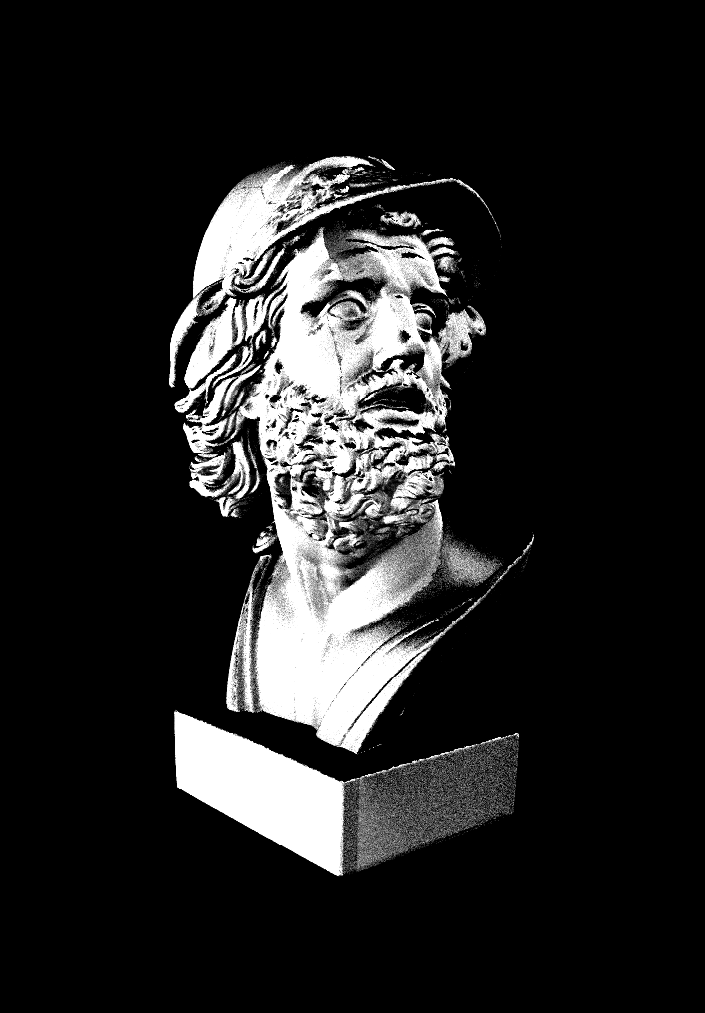
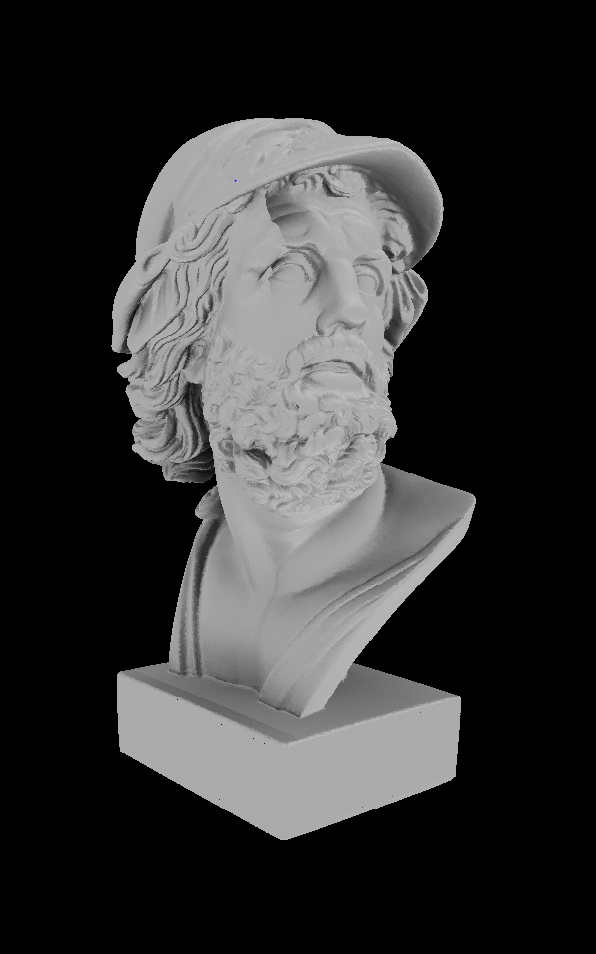
corrected ao solver

diff --git a/src/octree.cpp b/src/octree.cpp
@@ -249,6 +249,13 @@ bool Octree::traverseAny(const Mesh* mesh, const Ray& ray) const {
 	return intersectionFound;
 }
 
+bool Octree::traverseAny_v2(const Mesh* mesh, const Ray& ray) const {
+	bool intersectionFound = false;
+	traverseAnyRec_v2(mesh, root, ray, intersectionFound);
+	return intersectionFound;
+}
+
+
 void Octree::traverseAnyRec(const Mesh* mesh, Node* node, const Ray& ray, bool& intersectionFound) const {
 	if (node == nullptr) {
 		return;
@@ -268,9 +275,9 @@ void Octree::traverseAnyRec(const Mesh* mesh, Node* node, const Ray& ray, bool& 
 				// This occurs, when the ray is colliding with objects that are in opposite 
 				// direction of the ray direction vector. 
 				// We don't want to consider this case at all.
-				if (tt <= 0.f) return;
-				intersectionFound = true;
-				return;
+				if (tt > 0.f) {
+					intersectionFound = true;
+				}
 			}
 		}
 	}
@@ -292,6 +299,48 @@ void Octree::traverseAnyRec(const Mesh* mesh, Node* node, const Ray& ray, bool& 
 					if (near > 0.f) {
 						traverseAnyRec(mesh, node->m_children[i], ray, intersectionFound);
 					}
+				}
+			}
+		}
+	}
+}
+
+void Octree::traverseAnyRec_v2(const Mesh* mesh, Node* node, const Ray& ray, bool& intersectionFound) const {
+	if (node == nullptr) {
+		return;
+	}
+
+	// Any triangle found, therefore further processing can stop.
+	if (intersectionFound) {
+		return;
+	}
+
+	if (node->indices != nullptr) {
+		for (int i = 0; i < node->nIndices; ++i) {
+			float uu, vv, tt;
+			if (mesh->rayIntersection(ray, node->indices[i], uu, vv, tt)) {
+				// Rays with origins inside the space represented by the octree can 
+				// have intersections with geometry, where the ray parameter is negative.
+				// This occurs, when the ray is colliding with objects that are in opposite 
+				// direction of the ray direction vector. 
+				// We don't want to consider this case at all.
+				if (tt > 0.f) {
+					intersectionFound = true;
+				}
+			}
+		}
+	}
+
+	else {
+		if (node->m_children == nullptr) {
+			return;
+		}
+
+		for (int i = 0; i < nSubRegions; ++i) {
+			if (node->m_children[i] != nullptr) {
+				float near, far;
+				if (node->m_children[i]->bbox.rayIntersect(ray, near, far)) {
+					traverseAnyRec_v2(mesh, node->m_children[i], ray, intersectionFound);
 				}
 			}
 		}

diff --git a/src/renderer.cpp b/src/renderer.cpp
@@ -6,23 +6,19 @@ namespace specter {
 // of light objects to the Scene object?
 RTX_Renderer::RTX_Renderer(Scene* scene) {
 	this->scene = scene;
+	frame.resize(product(scene->camera.getResolution()));
 }
 
 RTX_Renderer::~RTX_Renderer() {}
 
 void RTX_Renderer::run() {
-
-	std::vector<specter::vec3f> frame;
-	//frame.resize(camera.getResolution().x * camera.getResolution().y);
-	frame.resize(0);
-	frame.resize(scene->camera.getResolution().x * scene->camera.getResolution().y);
-	
 	std::cout << "Rendering mesh (parallel)...\n";
+	
 	specter::Timer rtxtime;
 
+	const int nShadowRays = 1;
 	AmbientLight ambientLight;
-
-	unsigned nSamplesPerDirection = std::sqrt(4);
+	unsigned nSamplesPerDirection = std::sqrt(1);
 	tbb::parallel_for(tbb::blocked_range2d<int>(0, scene->camera.getResolution().y, 0, scene->camera.getResolution().x),
 		[&](const tbb::blocked_range2d<int>& r) {
 			for (int y = r.rows().begin(); y < r.rows().end(); ++y) {
@@ -46,9 +42,8 @@ void RTX_Renderer::run() {
 									cumulativeColor += abs(normal);
 								}
 								else {
-									
 									const specter::vec3f intersectionPoint = ray.o + its.t * ray.d;
-									for (int i = 0; i < 4; ++i) {
+									for (int i = 0; i < nShadowRays; ++i) {
 										cumulativeColor += ambientLight.sample_light(scene->accel, intersectionPoint, normal);
 									}
 									/*
@@ -71,9 +66,8 @@ void RTX_Renderer::run() {
 							}
 						}
 					}
-
+					cumulativeColor /= nShadowRays;
 					const std::size_t index = y * scene->camera.getResolution().x + x;
-					cumulativeColor /= static_cast<float>(4);
 					frame[index] = cumulativeColor;
 				}
 			}
@@ -84,8 +78,6 @@ void RTX_Renderer::run() {
 	scene->accel.dbg_print();
 
 	window.openWindow(specter::WindowMode::WINDOWED, specter::vec2u(scene->camera.getResolution().x, scene->camera.getResolution().y), "Specter Raytracer");
-
-	//specter::Window window(specter::WindowMode::WINDOWED, specter::vec2u(camera.getResolution().x, camera.getResolution().y), "Specter Raytracer");
 	glfwSetInputMode(window.getWindow(), GLFW_CURSOR, GLFW_CURSOR_DISABLED);
 
 	static float quad[] =

diff --git a/src/coordinate_system.cpp b/src/coordinate_system.cpp
@@ -4,24 +4,38 @@ namespace specter {
 
 // Computes the coordinate system of a plane given its surface normal.
 CoordinateSystem::CoordinateSystem(const vec3f& normal) {
-	zaxis = normal;
+	n = normal;
 	if (std::abs(normal.x) > std::abs(normal.y)) {
-		yaxis = vec3f(normal.z, 0.f, -normal.x);
+		nt = vec3f(normal.z, 0.f, -normal.x);
 	} else {
-		yaxis = vec3f(0.f, normal.z, -normal.y);
+		nt = vec3f(0.f, -normal.z, normal.y);
 	}
-	yaxis = normalize(yaxis);
-	xaxis = cross(yaxis, zaxis);
+	nb = cross(n, nt);
 }
 
 // Transform vector from world space to local space
 vec3f CoordinateSystem::toLocal(const vec3f& v) {
-	return vec3f(dot(v, xaxis), dot(v, yaxis), dot(v, zaxis));
+	return vec3f(	v.x * nb.x + v.y * n.x + v.z * nt.x,
+					v.x * nb.y + v.y * n.y + v.z * nt.y,
+					v.x * nb.z + v.y * n.z + v.z * nt.z);
 }
 
 // Transform vector from world space to local space
 vec3f CoordinateSystem::toWorld(const vec3f& v) {
-	return v.x * xaxis + v.y * yaxis + v.z * zaxis;
+	return v.x * nt + v.y * n + v.z * nb;
 }
 
 }
+
+
+/*
+x * Nx + y * Ny + z * Nz = 0
+
+x * Nx + y * Ny + (z=0) * Nz = 0
+x * Nx + y * Ny = 0
+x * Nx = -y * Ny 
+
+1. x = -Ny and y = Nx
+
+2. x = Ny and y = -Nx
+*/

diff --git a/src/ambient_light.cpp b/src/ambient_light.cpp
@@ -3,25 +3,12 @@
 namespace specter {
 
 vec3f AmbientLight::sample_light(const Accel& accel, const vec3f& point, const vec3f& normal) {
-
 	CoordinateSystem hemisphereFrame(normal);
-
-	//auto rayDirection = sampler.uniformlySampleCosineWeightedHemisphere();
-	auto rayDirection = sampler.uniformlySampleHemisphere();
-	rayDirection = normalize(hemisphereFrame.toLocal(rayDirection));
 	
-	Ray shadowRay;
-	shadowRay.d = rayDirection;
-	shadowRay.invd = inverse(shadowRay.d);
-	shadowRay.o = point + normal * 1e-4;
+	vec3f sdir = normalize(sampler.uniformlySampleCosineWeightedHemisphere_v2());
 
-	Intersection its;
-	if (accel.traceRay(shadowRay, its, true)) {
-		return vec3f(0.f);
-	}
-
-	float angleTerm = dot(rayDirection, normal) / Pi;
-	return angleTerm;
+	Ray shadowRay(point + normal * 1e-4, hemisphereFrame.toLocal(sdir));	// Displace origin to avoid self-shadowing
+	return accel.traceShadowRay(shadowRay) ? vec3f(0.f) : dot(shadowRay.d, normal);
 }
 
 }

diff --git a/src/octree.hpp b/src/octree.hpp
@@ -42,6 +42,9 @@ struct Octree {
 	// Traverse the octree. Returns true if the ray intersects any geometry in the mesh.
 	bool traverseAny(const Mesh* mesh, const Ray& ray) const;
 
+	// Adjusts for the situation where a ray is within a bounding box
+	bool traverseAny_v2(const Mesh* mesh, const Ray& ray) const;
+
 private:
 	
 	// Build the octree recursively. This is initially called by the public function build()
@@ -52,6 +55,9 @@ private:
 	
 	// Traverse the octree recursively. This is initially called by the public function traverseAny()
 	void traverseAnyRec(const Mesh* mesh, Node* node, const Ray& ray, bool& intersectionFound) const;
+	
+	// Adjusts for the situation where a ray is within a bounding box
+	void traverseAnyRec_v2(const Mesh* mesh, Node* node, const Ray& ray, bool& intersectionFound) const;
 
 	// Free the octree recursively. This is called by the destructor.
 	void freeOctreeRec(Node* node);

diff --git a/src/sampler.cpp b/src/sampler.cpp
@@ -56,4 +56,10 @@ vec3f Sampler::uniformlySampleCosineWeightedHemisphere() {
 	return vec3f(d.x, d.y, z);
 }
 
+vec3f Sampler::uniformlySampleCosineWeightedHemisphere_v2() {
+	vec2f d = sampleConcentricDisk();
+	float y = std::sqrt(std::max(0.f, 1 - d.x * d.x - d.y * d.y));
+	return vec3f(d.x, y, d.y);
+}
+
 }

diff --git a/src/sampler.hpp b/src/sampler.hpp
@@ -18,6 +18,7 @@ struct Sampler {
 	vec3f uniformlySampleHemisphere();
 	// Sample the cosine weighted unit sphere
 	vec3f uniformlySampleCosineWeightedHemisphere();
+	vec3f uniformlySampleCosineWeightedHemisphere_v2();
 
 private:
 

diff --git a/src/coordinate_system.hpp b/src/coordinate_system.hpp
@@ -16,7 +16,7 @@ struct CoordinateSystem {
 	// Transform vector from local space to world space
 	vec3f toWorld(const vec3f& v);
 
-	vec3f xaxis, yaxis, zaxis;
+	vec3f n, nt, nb;
 };
 
 }

diff --git a/src/renderer.hpp b/src/renderer.hpp
@@ -26,6 +26,8 @@ private:
 
 	Scene* scene;
 
+	std::vector<specter::vec3f> frame;
+
 	Window window;
 	uint64_t debugMode;
 };
